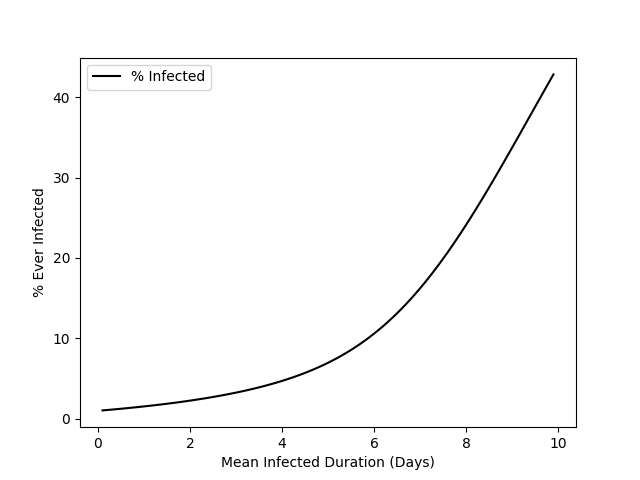
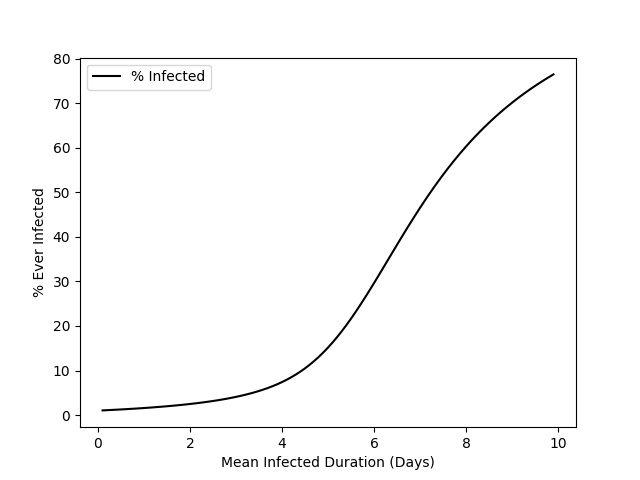
changing variables

diff --git a/hrenard_program3.py b/hrenard_program3.py
@@ -9,7 +9,7 @@ def runsim(
 	contact_factor = .8,                          		# (contact / day) / person
 	mean_incubation = 9,                               	# day
 	mean_quarantine = 10,					# day
-	mean_death = 8,                                 	# day
+	mean_death = 15,                                 	# day
 	plot = True):
 	
 	recovery_factor = 1 / mean_infectious_duration    	# 1 / day
